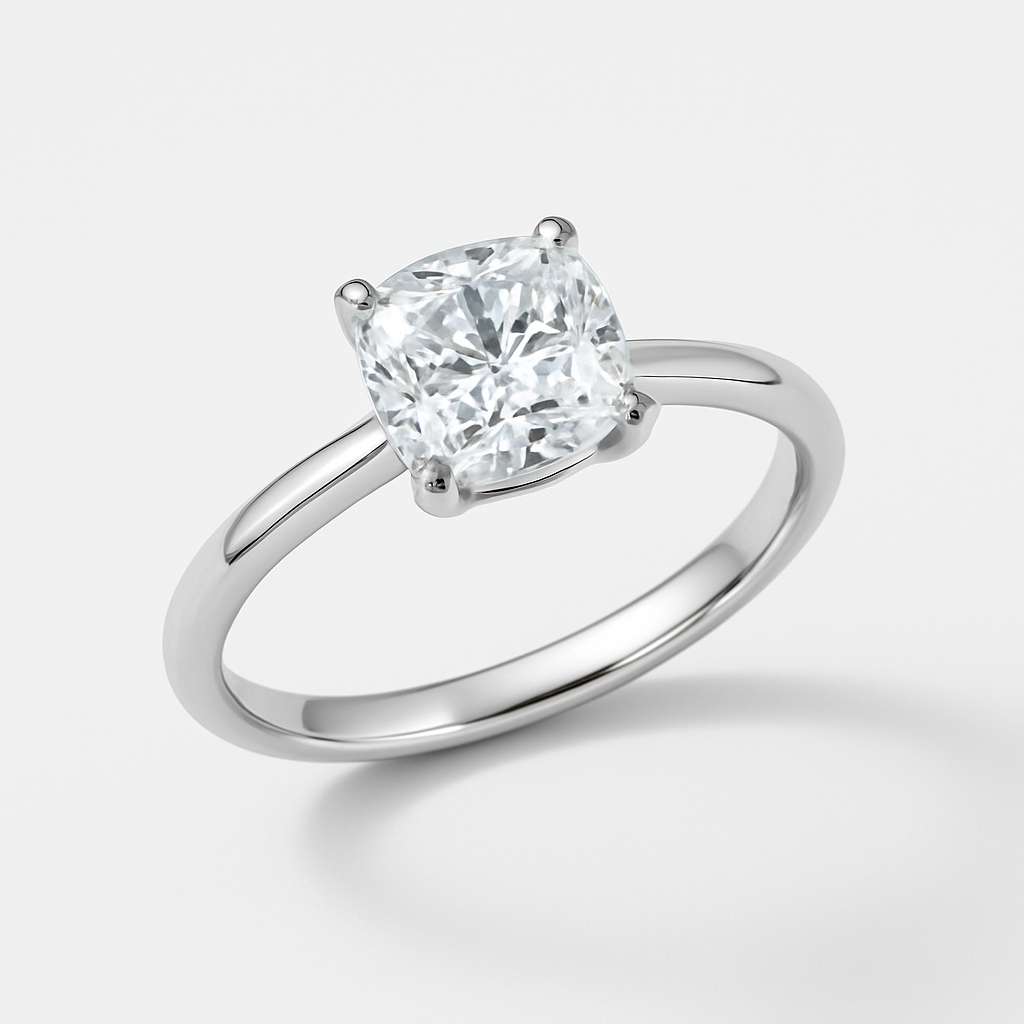
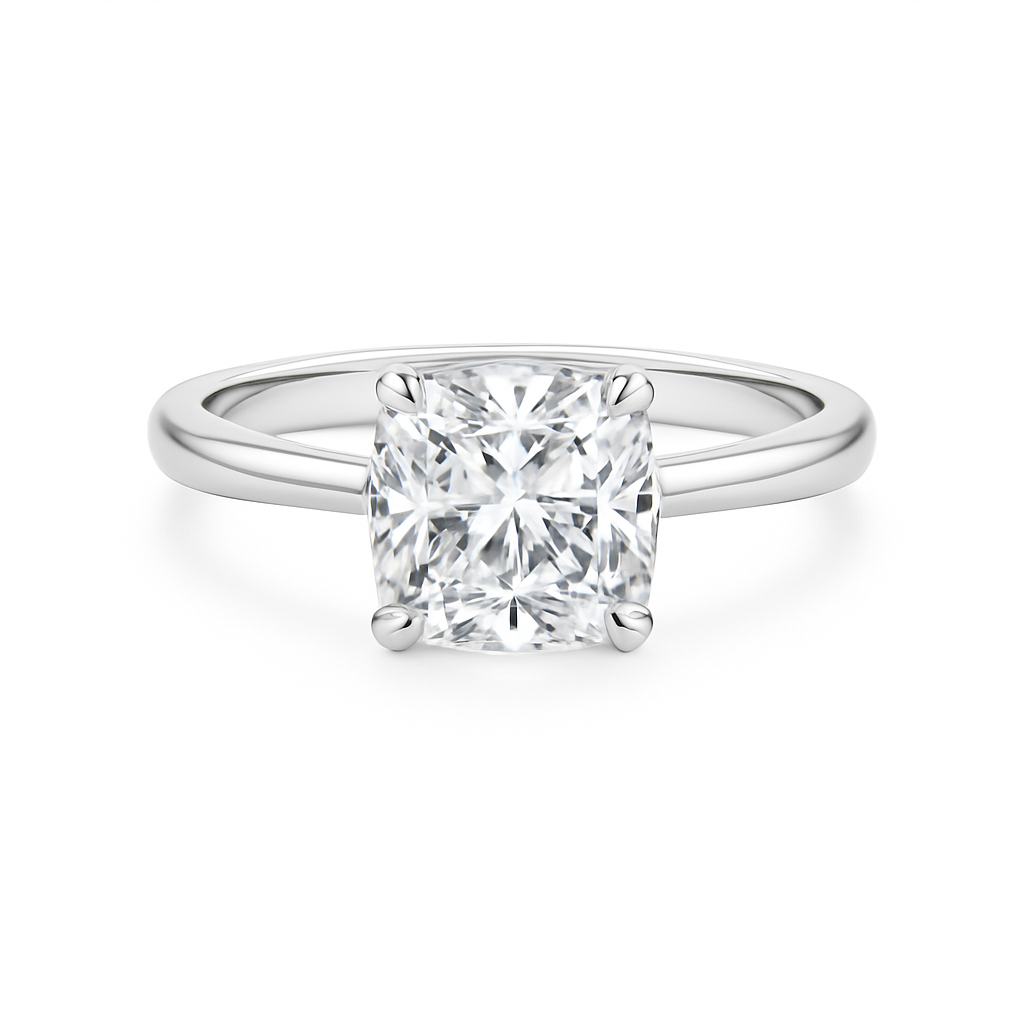
feat: adjust padding and z-index in engagement ring pages

Changed region(s): [[0.125, 0.1875, 1.0, 1.0]]

diff --git a/src/components/engagement/RingDetailPage.tsx b/src/components/engagement/RingDetailPage.tsx
@@ -64,8 +64,8 @@ export function RingDetailPage({ slug }: Props) {
     <>
       <div className="min-h-screen bg-white" style={{ color: G }}>
 
-        {/* ── BREADCRUMB ─────────────────────────────────────────────────── */}
-        <nav className="flex items-center gap-2 px-8 lg:px-14 py-5" style={{ borderBottom: `1px solid ${BORDER}` }} aria-label="Breadcrumb">
+        {/* ── BREADCRUMB — pt clears fixed header ────────────────────────── */}
+        <nav className="flex items-center gap-2 px-8 lg:px-14 pt-24 pb-5" style={{ borderBottom: `1px solid ${BORDER}` }} aria-label="Breadcrumb">
           <Link href="/" className="font-sans" style={{ fontSize: 11, color: '#bbb', letterSpacing: '0.1em', textTransform: 'uppercase' }}>Home</Link>
           <ChevronRight className="w-2.5 h-2.5 flex-shrink-0" style={{ color: '#ddd' }} strokeWidth={1.5} />
           <Link href="/engagement-rings" className="font-sans" style={{ fontSize: 11, color: '#bbb', letterSpacing: '0.1em', textTransform: 'uppercase' }}>Engagement Rings</Link>
@@ -76,8 +76,8 @@ export function RingDetailPage({ slug }: Props) {
         {/* ── SPLIT LAYOUT ───────────────────────────────────────────────── */}
         <div className="flex flex-col lg:flex-row">
 
-          {/* LEFT — image panel, sticky on desktop */}
-          <div className="lg:w-[58%] lg:sticky lg:top-0 lg:h-screen flex flex-col bg-white">
+          {/* LEFT — image panel, sticky on desktop, pure white */}
+          <div className="lg:w-[58%] lg:sticky lg:top-0 lg:h-screen flex flex-col" style={{ backgroundColor: '#ffffff' }}>
 
             {/* Main image */}
             <div className="flex-1 flex items-center justify-center p-10 lg:p-16">
@@ -285,13 +285,13 @@ export function RingDetailPage({ slug }: Props) {
         </div>
       </div>
 
-      {/* ── DIAMOND SELECTOR DRAWER ────────────────────────────────────────── */}
+      {/* ── DIAMOND SELECTOR DRAWER — z above header (z-[70]) ────────────── */}
       {diamondOpen && (
         <div
-          className="fixed inset-0 z-40"
+          className="fixed inset-0 z-[80]"
           onClick={(e) => { if (e.target === e.currentTarget) setDiamondOpen(false); }}
         >
-          <div className="absolute inset-0 bg-black/15" />
+          <div className="absolute inset-0 bg-black/5" />
           <div
             className="absolute right-0 top-0 bottom-0 flex flex-col bg-white"
             style={{ width: 'min(520px, 96vw)', boxShadow: '-4px 0 40px rgba(0,0,0,0.10)' }}

diff --git a/src/components/engagement/EngagementRingPage.tsx b/src/components/engagement/EngagementRingPage.tsx
@@ -63,8 +63,8 @@ export function EngagementRingPage({ settings: _settings }: Props) {
   return (
     <div className="min-h-screen bg-white" style={{ color: G }}>
 
-      {/* ── PAGE TITLE ───────────────────────────────────────────────────── */}
-      <div className="text-center pt-14 pb-1">
+      {/* ── PAGE TITLE — pt must clear the fixed header (~72px) ─────────── */}
+      <div className="text-center pt-28 pb-1">
         <h1
           className="font-display"
           style={{ fontSize: 'clamp(26px, 4vw, 44px)', fontWeight: 300, letterSpacing: '0.06em', color: G }}
@@ -74,7 +74,7 @@ export function EngagementRingPage({ settings: _settings }: Props) {
       </div>
 
       {/* ── SHAPE SELECTOR ───────────────────────────────────────────────── */}
-      <div className="overflow-x-auto" style={{ borderTop: `1px solid ${BORDER}`, borderBottom: `1px solid ${BORDER}`, scrollbarWidth: 'none' }}>
+      <div className="overflow-x-auto px-6 lg:px-14" style={{ borderTop: `1px solid ${BORDER}`, borderBottom: `1px solid ${BORDER}`, scrollbarWidth: 'none' }}>
         <ShapeSelector
           selected={activeShape}
           onChange={s => setActiveShape(prev => prev === s ? null : s)}